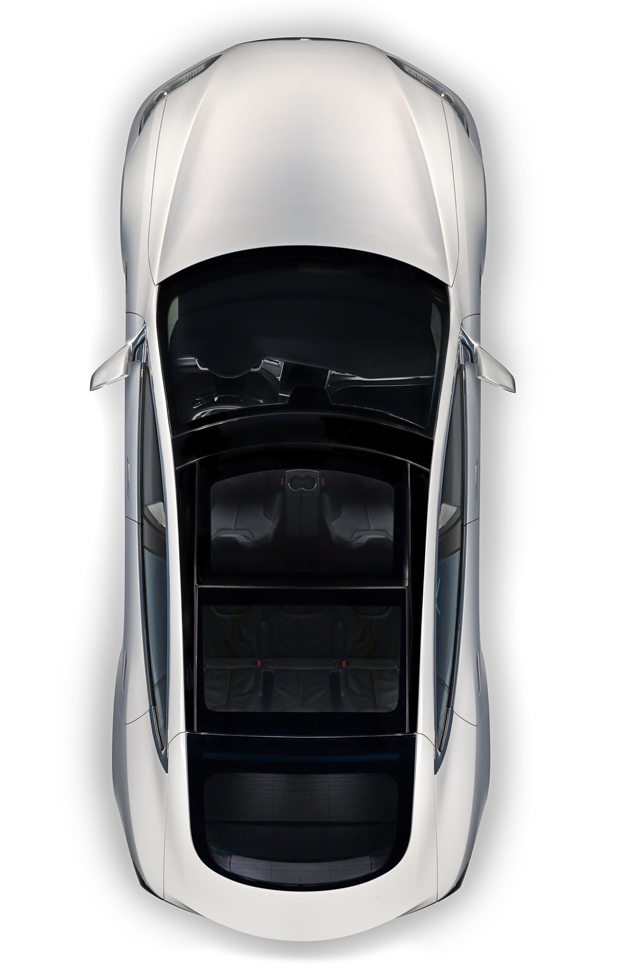
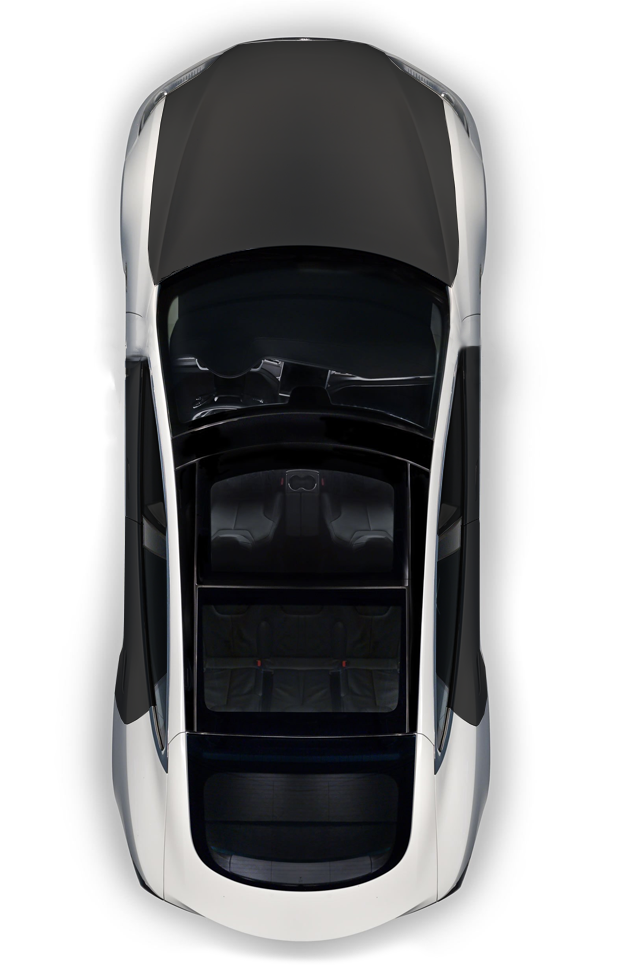
add animation car

Changed region(s): [[0.2111, 0.0308, 0.754, 0.3077], [0.6937, 0.3385, 0.8143, 0.7385], [0.1206, 0.3385, 0.2714, 0.7385]]

diff --git a/LeftImage.qml b/LeftImage.qml
@@ -15,33 +15,151 @@ Item {
         fillMode: Image.PreserveAspectFit
 
         Image {
-            id: carImage
+            id: rightDoor
             source: "qrc:/ui/test.png"
             width: asd.width/5
-            height: asd.height/5
+            height: asd.height/5.5
             anchors.left: asd.horizontalCenter
-            anchors.leftMargin: 30
+            anchors.leftMargin: 31
             anchors.bottom: asd.verticalCenter
-            anchors.bottomMargin: -23
+            anchors.bottomMargin: -18
             fillMode: Image.PreserveAspectFit
             transformOrigin: Item.Top
             SequentialAnimation on rotation {
-                    id: doorOpenAnimation
+                    id: doorOpenAnimationRight
                     running: false
-                    PropertyAnimation { target: carImage; property: "rotation"; to: -40; duration: 500 }
+                    PropertyAnimation { target: rightDoor; property: "rotation"; to: -40; duration: 500 }
                 }
             SequentialAnimation on rotation {
-                    id: revdoorOpenAnimation
+                    id: revdoorOpenAnimationRight
                     running: false
-                    PropertyAnimation { target: carImage; property: "rotation"; to: 0; duration: 500 }
+                    PropertyAnimation { target: rightDoor; property: "rotation"; to: 0; duration: 500 }
                 }
 
                 MouseArea {
                     anchors.fill: parent
                     onClicked: {
-                        doorOpenAnimation.running = true
+                        doorOpenAnimationRight.running = true
                     }
                 }
+        }
+
+        Image {
+            id: leftDoor
+            source: "qrc:/ui/leftDoor.png"
+            width: asd.width/5
+            height: asd.height/5.5
+            anchors.right: asd.horizontalCenter
+            anchors.rightMargin: 39
+            anchors.bottom: asd.verticalCenter
+            anchors.bottomMargin: -18
+            fillMode: Image.PreserveAspectFit
+            transformOrigin: Item.Top
+            SequentialAnimation on rotation {
+                    id: doorOpenAnimationLeft
+                    running: false
+                    PropertyAnimation { target: leftDoor; property: "rotation"; to: 40; duration: 500 }
+                }
+            SequentialAnimation on rotation {
+                    id: revdoorOpenAnimationLeft
+                    running: false
+                    PropertyAnimation { target: leftDoor; property: "rotation"; to: 0; duration: 500 }
+                }
+
+                MouseArea {
+                    anchors.fill: parent
+                    onClicked: {
+                        doorOpenAnimationLeft.running = true
+                    }
+                }
+        }
+
+        Image {
+            id: leftDoorBottom
+            source: "qrc:/ui/LeftDoorBottom.png"
+            width: asd.width/5
+            height: asd.height/5.5
+            anchors.right: asd.horizontalCenter
+            anchors.rightMargin: 34
+            anchors.top: asd.verticalCenter
+            anchors.topMargin: 10
+            fillMode: Image.PreserveAspectFit
+            transformOrigin: Item.Top
+            SequentialAnimation on rotation {
+                    id: doorOpenAnimationLeftBottom
+                    running: false
+                    PropertyAnimation { target: leftDoorBottom; property: "rotation"; to: 40; duration: 500 }
+                }
+            SequentialAnimation on rotation {
+                    id: revdoorOpenAnimationLeftBottom
+                    running: false
+                    PropertyAnimation { target: leftDoorBottom; property: "rotation"; to: 0; duration: 500 }
+                }
+
+                MouseArea {
+                    anchors.fill: parent
+                    onClicked: {
+                        doorOpenAnimationLeftBottom.running = true
+                    }
+                }
+        }
+
+        Image {
+            id: rightDoorBottom
+            source: "qrc:/ui/RightDoorBottom.png"
+            width: asd.width/5
+            height: asd.height/5.5
+            anchors.left: asd.horizontalCenter
+            anchors.leftMargin: 27
+            anchors.top: asd.verticalCenter
+            anchors.topMargin: 10
+            fillMode: Image.PreserveAspectFit
+            transformOrigin: Item.Top
+            SequentialAnimation on rotation {
+                    id: doorOpenAnimationRightBottom
+                    running: false
+                    PropertyAnimation { target: rightDoorBottom; property: "rotation"; to: -40; duration: 500 }
+                }
+            SequentialAnimation on rotation {
+                    id: revdoorOpenAnimationRightBottom
+                    running: false
+                    PropertyAnimation { target: rightDoorBottom; property: "rotation"; to: 0; duration: 500 }
+                }
+
+                MouseArea {
+                    anchors.fill: parent
+                    onClicked: {
+                        doorOpenAnimationRightBottom.running = true
+                    }
+                }
+        }
+
+        Image
+        {
+            id: closeCapot
+            source: "qrc:/ui/CapotClose.png"
+            width: asd.width/2
+            height: asd.height/2
+            fillMode: Image.PreserveAspectFit
+            anchors.left: parent.horizontalCenter
+            anchors.leftMargin: -54
+            anchors.bottom: parent.verticalCenter
+            anchors.bottomMargin: 2
+            visible: true
+        }
+
+        Image
+        {
+            id: openCapot
+            source: "qrc:/ui/CapotOpen.png"
+            width: asd.width/2
+            height: asd.height/2
+            fillMode: Image.PreserveAspectFit
+            anchors.left: parent.horizontalCenter
+            anchors.leftMargin: -54
+            anchors.bottom: parent.verticalCenter
+            anchors.bottomMargin: -5
+            visible: false
         }
     }
 
@@ -56,63 +174,69 @@ Item {
         anchors.bottomMargin: 25
         opacity: 0.5
         onClicked: {
-            revdoorOpenAnimation.running = true
+            revdoorOpenAnimationRight.running = true
+            revdoorOpenAnimationLeft.running = true
+            revdoorOpenAnimationLeftBottom.running = true
+            revdoorOpenAnimationRightBottom.running = true
+            closeCapot.visible = !closeCapot.visible
+            openCapot.visible = !openCapot.visible
         }
     }
 
-    Button
-    {
-        text: "Top"
-        width: parent.width * 0.45
-        height: parent.height * 0.25
-        anchors.horizontalCenter: parent.horizontalCenter
-        anchors.top: parent.top
-        anchors.topMargin: 20
-        opacity: 0.5
-    }
+    // Button
+    // {
+    //     text: "Top"
+    //     width: parent.width * 0.45
+    //     height: parent.height * 0.25
+    //     anchors.horizontalCenter: parent.horizontalCenter
+    //     anchors.top: parent.top
+    //     anchors.topMargin: 20
+    //     opacity: 0.5
+    // }
 
-    Button {
-        text: "LeftUp"
-        width: parent.width * 0.175
-        height: parent.height * 0.2
-        anchors.right: parent.horizontalCenter
-        anchors.bottom: parent.verticalCenter
-        anchors.rightMargin: 40
-        anchors.bottomMargin: -20
-        opacity: 0.5
-    }
+    // Button {
+    //     text: "LeftUp"
+    //     width: parent.width * 0.175
+    //     height: parent.height * 0.2
+    //     anchors.right: parent.horizontalCenter
+    //     anchors.bottom: parent.verticalCenter
+    //     anchors.rightMargin: 40
+    //     anchors.bottomMargin: -20
+    //     opacity: 0.5
+    //     visible: false
+    // }
 
-    Button {
-        text: "RightUp"
-        visible: false
-        width: parent.width * 0.175
-        height: parent.height * 0.2
-        anchors.left: parent.horizontalCenter
-        anchors.bottom: parent.verticalCenter
-        anchors.leftMargin: 40
-        anchors.bottomMargin: -20
-        opacity: 0.5
-    }
+    // Button {
+    //     text: "RightUp"
+    //     visible: false
+    //     width: parent.width * 0.175
+    //     height: parent.height * 0.2
+    //     anchors.left: parent.horizontalCenter
+    //     anchors.bottom: parent.verticalCenter
+    //     anchors.leftMargin: 40
+    //     anchors.bottomMargin: -20
+    //     opacity: 0.5
+    // }
 
-    Button {
-        text: "LeftDown"
-        width: parent.width * 0.175
-        height: parent.height * 0.2
-        anchors.right: parent.horizontalCenter
-        anchors.top: parent.verticalCenter
-        anchors.rightMargin: 40
-        anchors.topMargin: 20
-        opacity: 0.5
-    }
+    // Button {
+    //     text: "LeftDown"
+    //     width: parent.width * 0.175
+    //     height: parent.height * 0.2
+    //     anchors.right: parent.horizontalCenter
+    //     anchors.top: parent.verticalCenter
+    //     anchors.rightMargin: 40
+    //     anchors.topMargin: 20
+    //     opacity: 0.5
+    // }
 
-    Button {
-        text: "RightDown"
-        width: parent.width * 0.175
-        height: parent.height * 0.2
-        anchors.left: parent.horizontalCenter
-        anchors.top: parent.verticalCenter
-        anchors.leftMargin: 40
-        anchors.topMargin: 20
-        opacity: 0.5
-    }
+    // Button {
+    //     text: "RightDown"
+    //     width: parent.width * 0.175
+    //     height: parent.height * 0.2
+    //     anchors.left: parent.horizontalCenter
+    //     anchors.top: parent.verticalCenter
+    //     anchors.leftMargin: 40
+    //     anchors.topMargin: 20
+    //     opacity: 0.5
+    // }
 }
